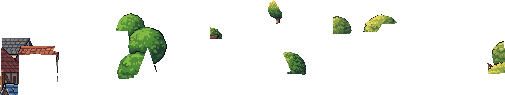
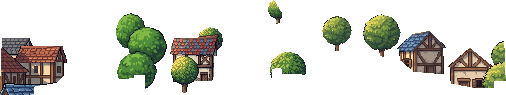
Scène du Château : le décor devant chaque bâtiment, même sans les autres
Le décor qui passe devant un bâtiment venait de la scène entière : ce qu'un autre bâtiment y cachait manquait (sans la
Commanderie, la Tour des griffons passait devant les maisons et les arbres). ville_scene.py prend maintenant pour chaque
bâtiment le décor que seuls lui et le sol cachent (rendre_devant.py, rendu Blender à côté des images peintes), et le jeu
le dessine juste après son bâtiment : les bâtiments plus proches le couvrent encore.

diff --git a/tools/art/ville_scene.py b/tools/art/ville_scene.py
@@ -3,12 +3,13 @@
 #
 # Le dossier source (voir son A-INTEGRER.md) : places.json (coin haut-gauche, taille et profondeur de chaque bâtiment
 # dans un rendu de 960 × 540, dont la scène du jeu est la bande des rangées 135 à 404), peints/<id>.png, seul/<id>.png et
-# sur-sol/<id>.png (pour couper ce que cache la colline), ombres-contact/<id>.png, visible/decor.png, peints/decor.png, et
+# sur-sol/<id>.png (pour couper ce que cache la colline), ombres-contact/<id>.png, decor-devant/<id>.png (le décor que seul
+# ce bâtiment et le sol cachent : rendre_devant.py ; sinon visible/decor.png), peints/decor.png, et
 # composer_scene.py qui fait le fond (montagnes, sol, ombres du décor, décor).
 #
 # Dans le jeu, de l'arrière vers l'avant : fond.png, l'ombre de chaque bâtiment bâti (déjà coupée sous le décor, et réglée
 # là où elle couvre l'ombre du décor : le même résultat que l'union des ombres de composer_scene.py), les bâtiments du plus
-# loin au plus proche, puis le décor qui passe devant chaque bâtiment bâti (<id>-devant.png).
+# loin au plus proche, chacun suivi du décor qui passe devant lui (<id>-devant.png ; les bâtiments plus proches le couvrent).
 #
 # Usage : python -I tools/art/ville_scene.py <dossier source> [faction]   (faction : chateau sans l'option)
 import os, sys, json, subprocess
@@ -98,7 +99,11 @@ def main():
     sans_decor = decor.getchannel("A").point(lambda v: 255 - v)
     ombre_decor = tons(os.path.join(src, "ombres-contact", "decor.png"))
 
-    visible_decor = ImageChops.multiply(masque(os.path.join(src, "visible", "decor.png")), decor.getchannel("A"))
+    def decor_vu(k):
+        """Le décor que rien ne cache devant le bâtiment k, les autres bâtiments retirés (rendre_devant.py) : sans eux,
+        visible/decor.png manquait ce qu'un autre bâtiment cache dans la scène entière (devant la Tour des griffons)."""
+        f = os.path.join(src, "decor-devant", k + ".png")
+        return ImageChops.multiply(masque(f if os.path.exists(f) else os.path.join(src, "visible", "decor.png")), decor.getchannel("A"))
 
     batiments = []
     for k in sorted(ids, key=lambda k: -places[k]["profondeur"]):
@@ -125,9 +130,9 @@ def main():
                 im, sx, sy = rogner(ombre)
                 im.save(os.path.join(dest, k + "-ombre.png"))
                 entree.update({"shadowX": sx, "shadowY": sy})
-        # le décor qui passe devant ce bâtiment (en 3D), redessiné par-dessus tous les bâtiments quand il est bâti
+        # le décor qui passe devant ce bâtiment (en 3D), redessiné juste après lui quand il est bâti
         devant = Image.new("RGBA", decor.size)
-        devant.paste(decor, (0, 0), ImageChops.multiply(masque(os.path.join(src, "seul", k + ".png")), visible_decor))
+        devant.paste(decor, (0, 0), ImageChops.multiply(masque(os.path.join(src, "seul", k + ".png")), decor_vu(k)))
         devant = bande(devant)
         if devant.getbbox():
             im, fx, fy = rogner(devant)

diff --git a/godot/scripts/Game/TownScreen.cs b/godot/scripts/Game/TownScreen.cs
@@ -483,7 +483,7 @@ public partial class TownScreen : CanvasLayer
 
     /// <summary>
     /// La ville en images, ×2, posée en bas au milieu de la vue : le fond, les ombres des bâtiments construits, les
-    /// bâtiments du plus loin au plus proche, puis le décor qui passe devant eux.
+    /// bâtiments du plus loin au plus proche, chacun suivi du décor qui passe devant lui.
     /// </summary>
     private void ShowScene(Town town, TownScene scene)
     {
@@ -515,9 +515,10 @@ public partial class TownScreen : CanvasLayer
             sprite.GuiInput += e => ClickBuilding(e, town, building);
             _sceneLayer.AddChild(sprite);
             _buildingBoxes[building.Id] = sprite;
+            // le décor qui passe devant lui, tout de suite : les bâtiments plus proches le couvrent encore
+            if (place.FrontX != null)
+                Layer(place.Id + "-devant", place.FrontX.Value, place.FrontY!.Value);
         }
-        foreach (var (_, place) in shown.Where(s => s.Place.FrontX != null))
-            Layer(place.Id + "-devant", place.FrontX!.Value, place.FrontY!.Value);
     }
 
     private Control BuildingBox(Town town, BuildingType building)
